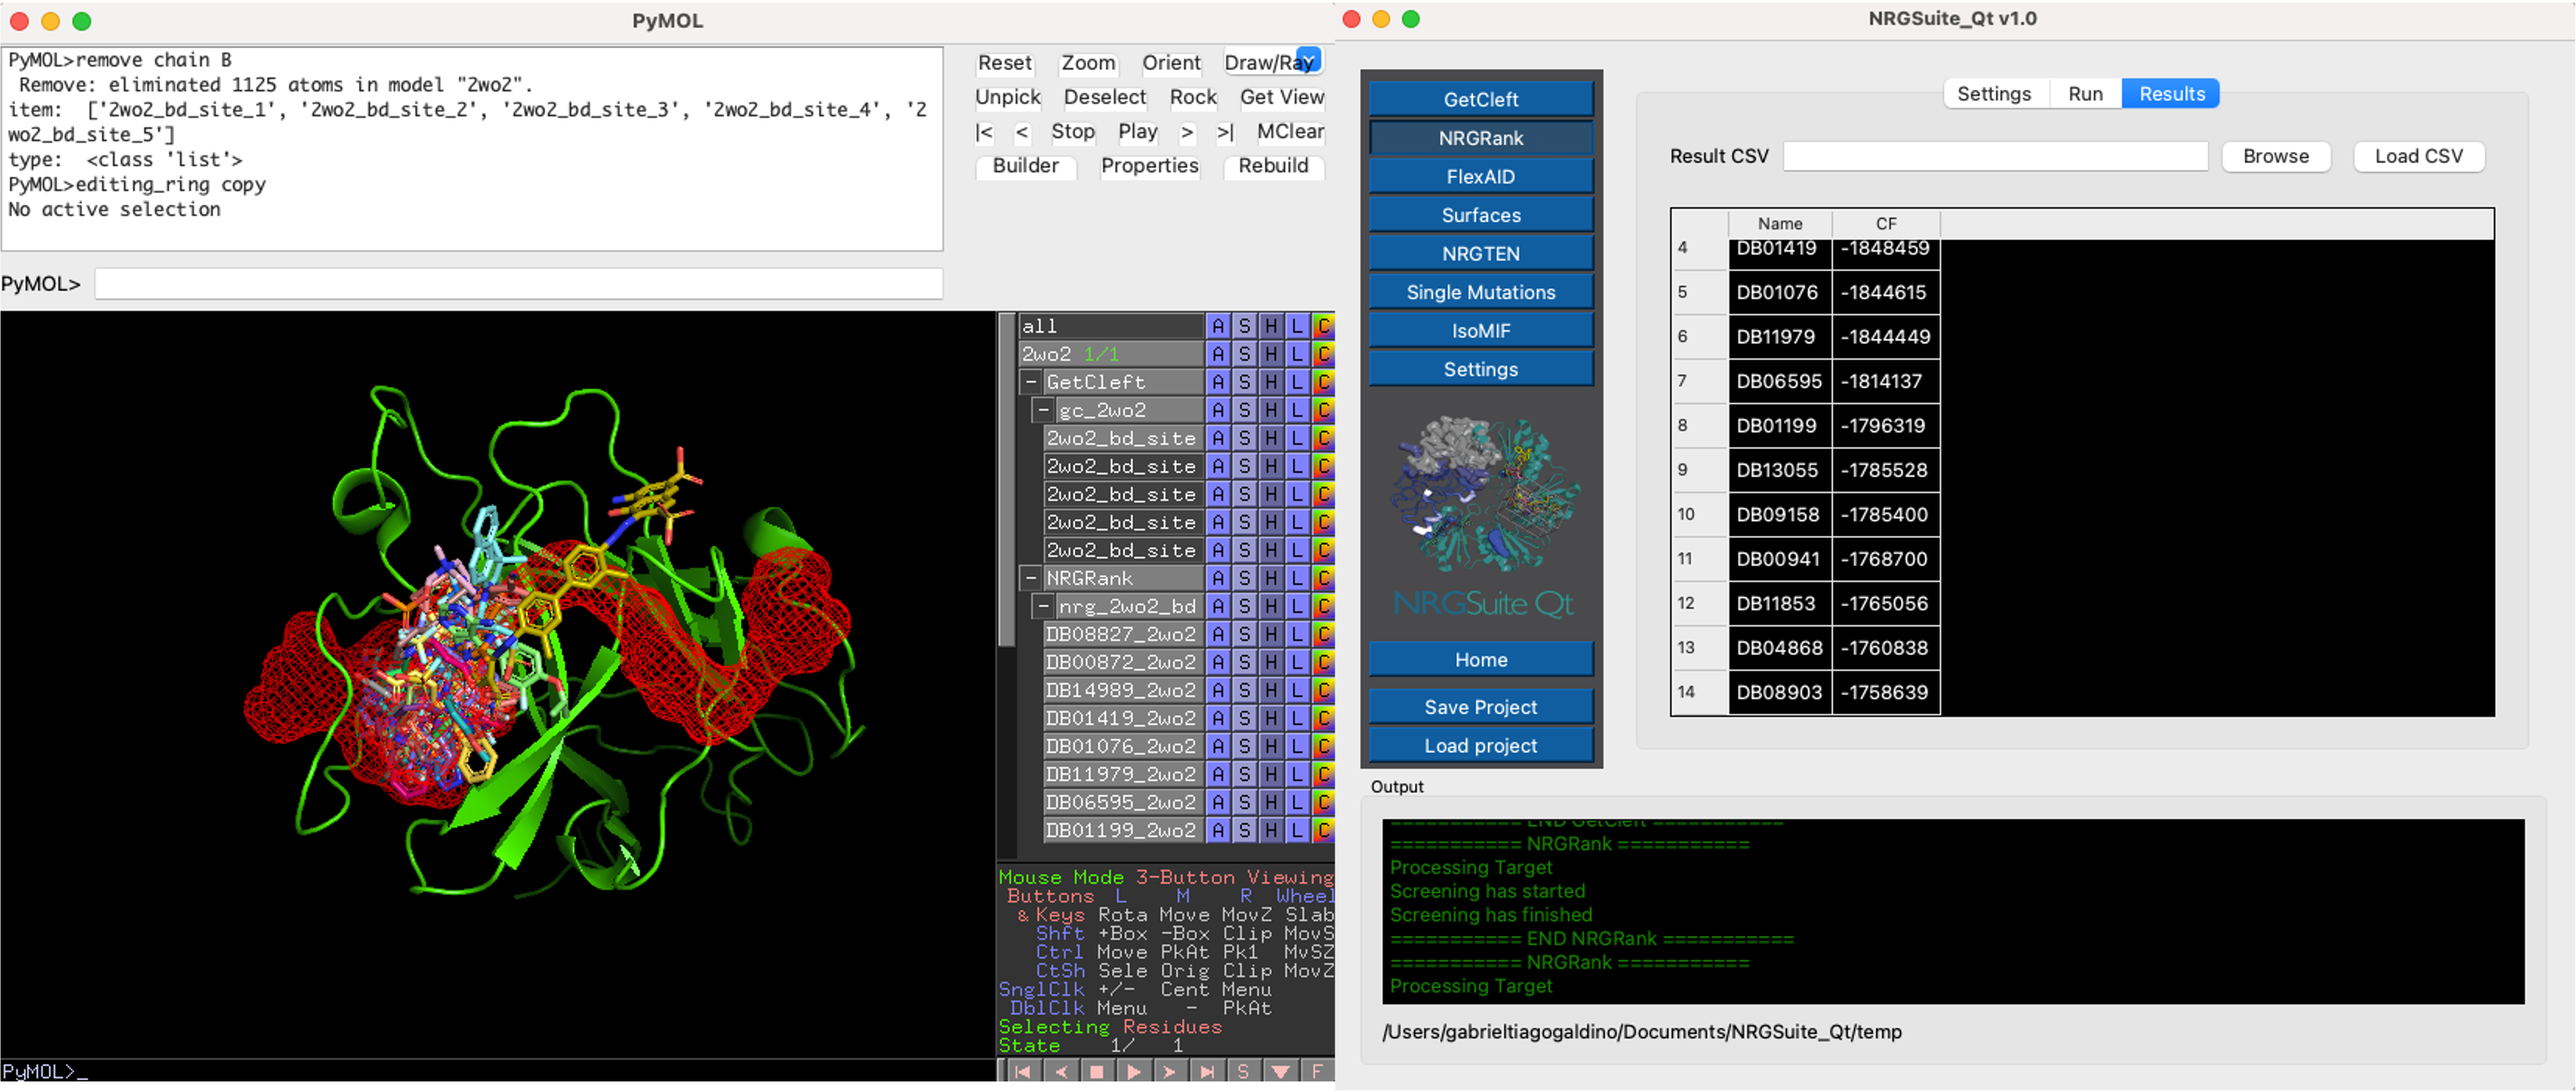
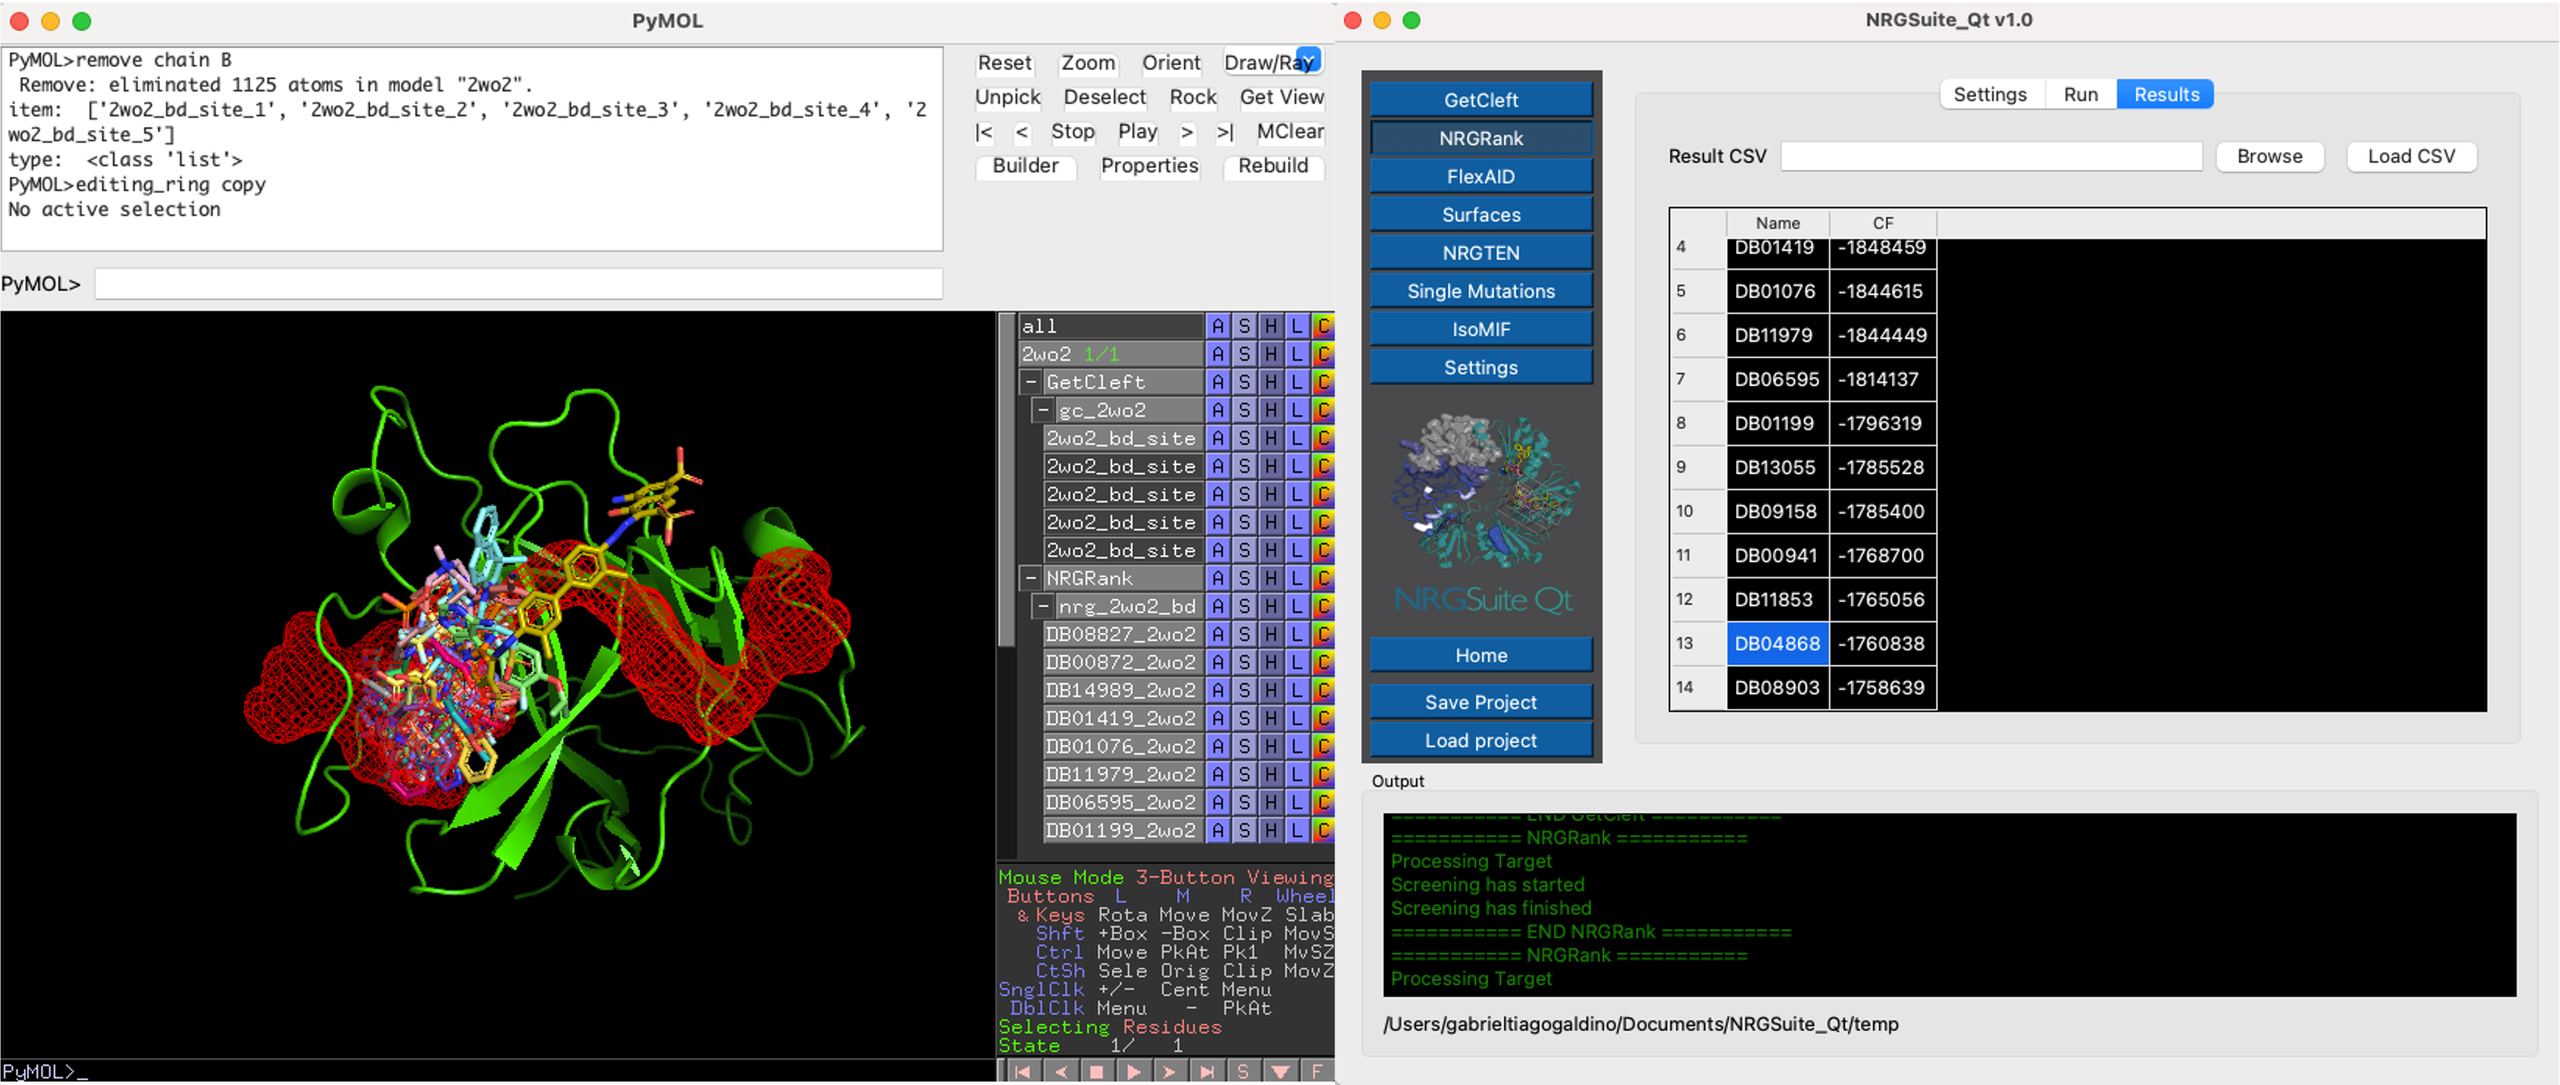
teste

diff --git a/docs/source/case_studies/epha4.rst b/docs/source/case_studies/epha4.rst
@@ -78,15 +78,15 @@ Click the 'Run' tab. Press 'Refresh' on the target list and select '2wo2'. Press
            :width: 65%
            :align: center
 
-The top 20 ligands will be plotted in the PyMOL interface in a group called 'NRGRank' also a list of all results will be shown in the tab Results in NRGRank menu. Search for 'DB04868'—this is the pose generated by NRGRank.
+The top 20 ligands will be plotted in the PyMOL interface in a group called 'NRGRank' also a list of all results will be shown in the tab Results in "NRGRank" menu. Search for 'DB04868' in the list and click on it. —this is the pose generated by NRGRank.
 
     .. image:: /_static/images/Tutorial/NRGRank_results_list.png
            :alt: An example image
-           :width: 65%
+           :width: 80%
            :align: center
 
 
-You can access the complete list of results of NRGRank by opening the '.csv' file in the 'temp' directory of 'NRGsuite_QT' in documents.
+You can also access the complete list of results of NRGRank by opening the '.csv' file in the 'temp' directory of 'NRGsuite_QT' in documents.
 
 
 To obtain a more realistic pose of the nilotinib/EphA4 complex, we will re-do the docking simulation for nilotinib using FlexAID.
@@ -94,9 +94,9 @@ To obtain a more realistic pose of the nilotinib/EphA4 complex, we will re-do th
 Performing Docking of Nilotinib Using FlexAID
 =============================================
 
-Click the 'FlexAID' button in the left corner menu. Go to the 'Settings' tab. Set the 'Number of chromosomes' to 500 and 'Number of generations' to 500. Check the box 'Ligand pose as reference' to compare FLEXAID and NRGDock poses.
+Click the 'FlexAID' button in the left corner menu. Go to the 'Settings' tab. Set the 'Number of chromosomes' to 1000 and 'Number of generations' to 1000. Check the box 'Ligand pose as reference' to compare FLEXAID and NRGDock poses. We are interested in the best result for FlexAID, so set "Max results" to 1
 
-    .. image:: /_static/images/Tutorial/flexaid_config.png
+    .. image:: /_static/images/Tutorial/flexaid_settings.png
            :alt: An example image
            :width: 65%
            :align: center
@@ -110,17 +110,14 @@ Go to the 'Simulate' tab. Press 'Refresh' in the target list, ligand list, and b
 
 The 'Results' tab will open automatically. The progress bar will indicate the progress of the simulation and list the top 5 best ligand poses and their scores (CF, most negative -> better scoring).
 
-    .. image:: /_static/images/Tutorial/flexaid_resulttable.png
+    .. image:: /_static/images/Tutorial/flexaid_results.png
            :alt: An example image
            :width: 65%
            :align: center
 
 The top 10 results will be plotted in the PyMOL interface in a group called Flexaid results:
 
-    .. image:: /_static/images/Tutorial/flexaid_results_view.png
-           :alt: An example image
-           :width: 65%
-           :align: center
+
 
 
 
